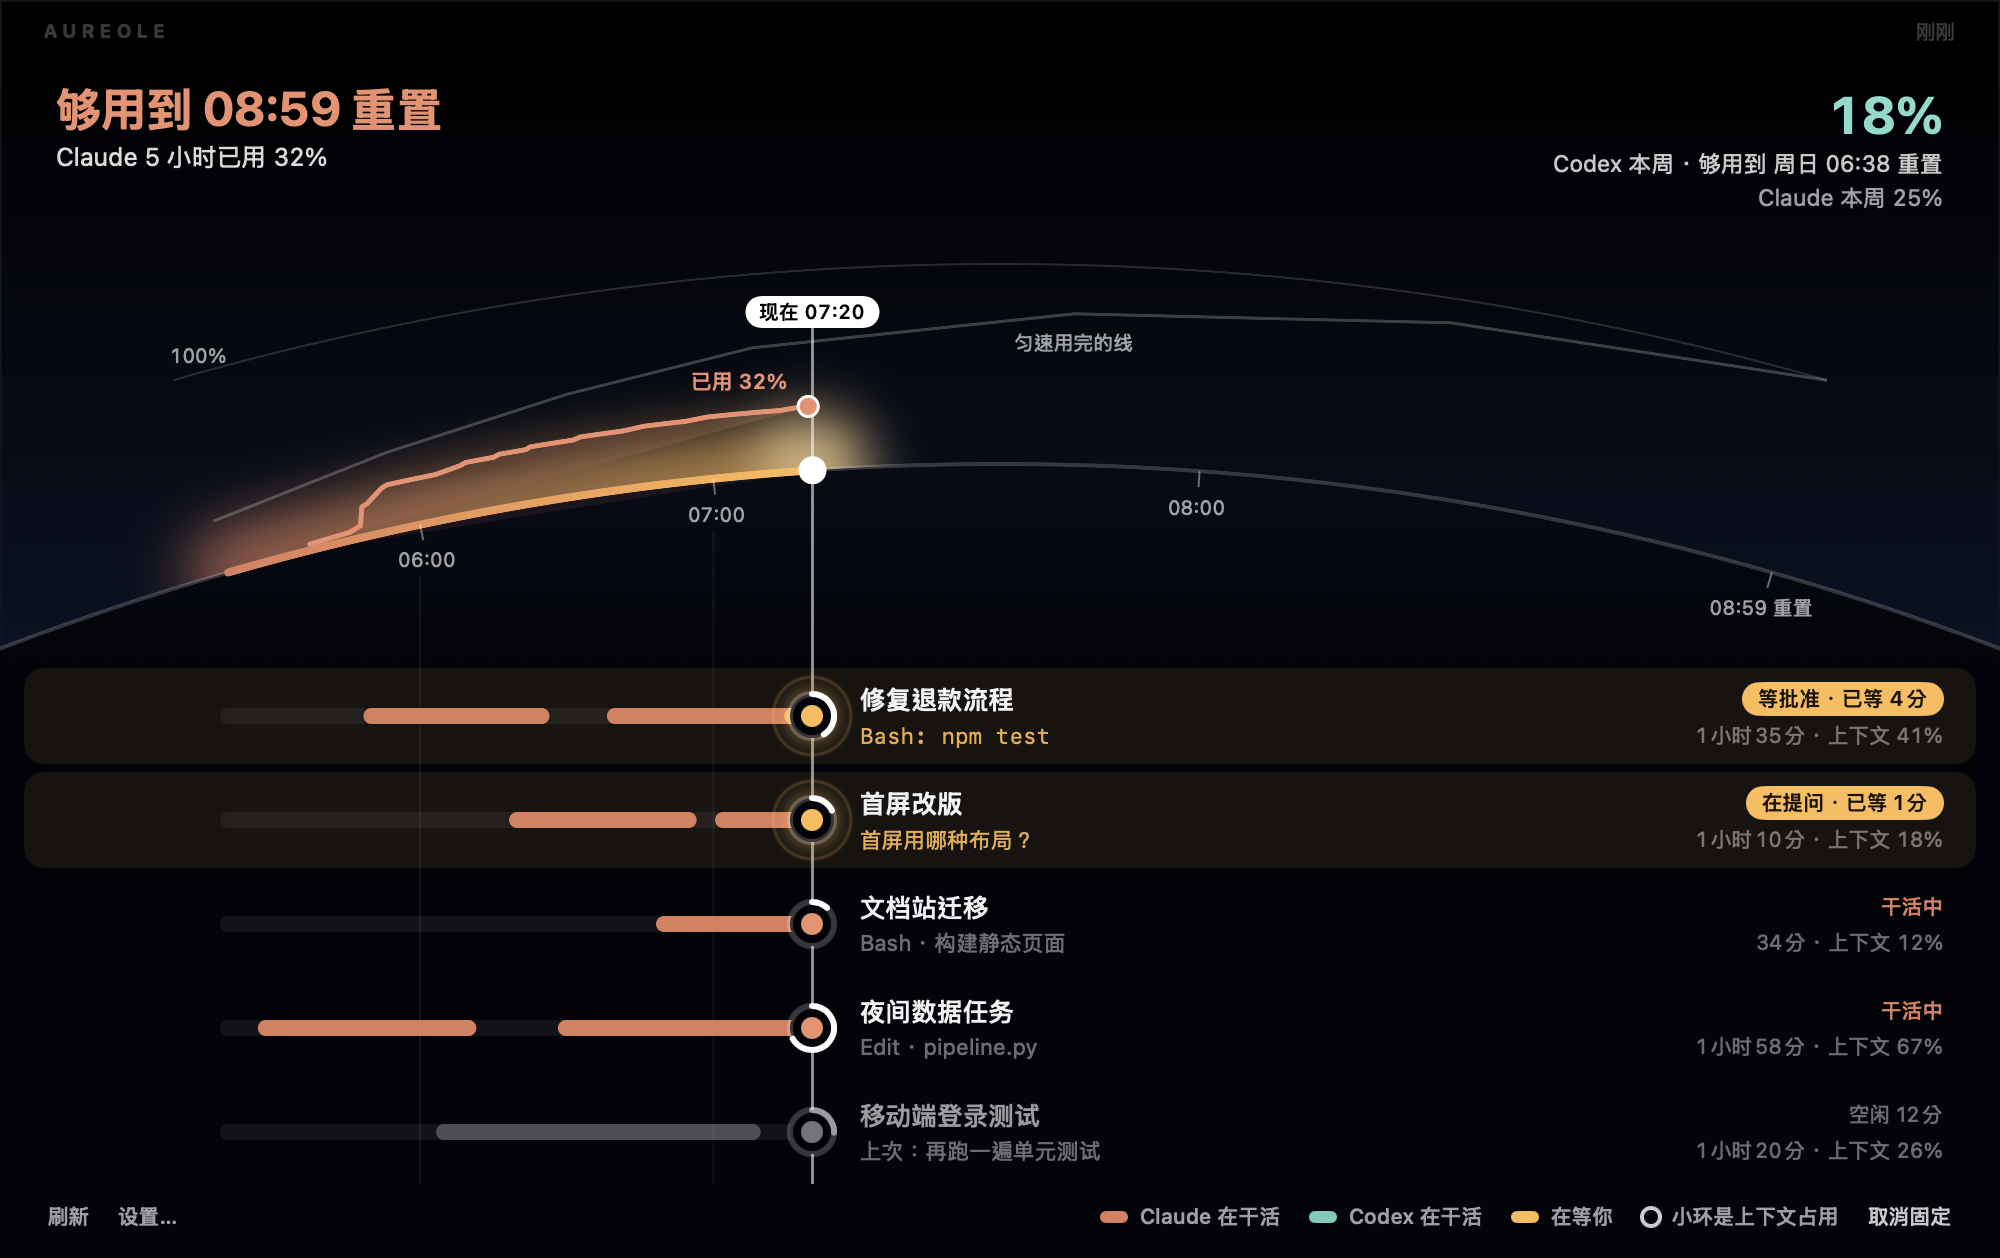
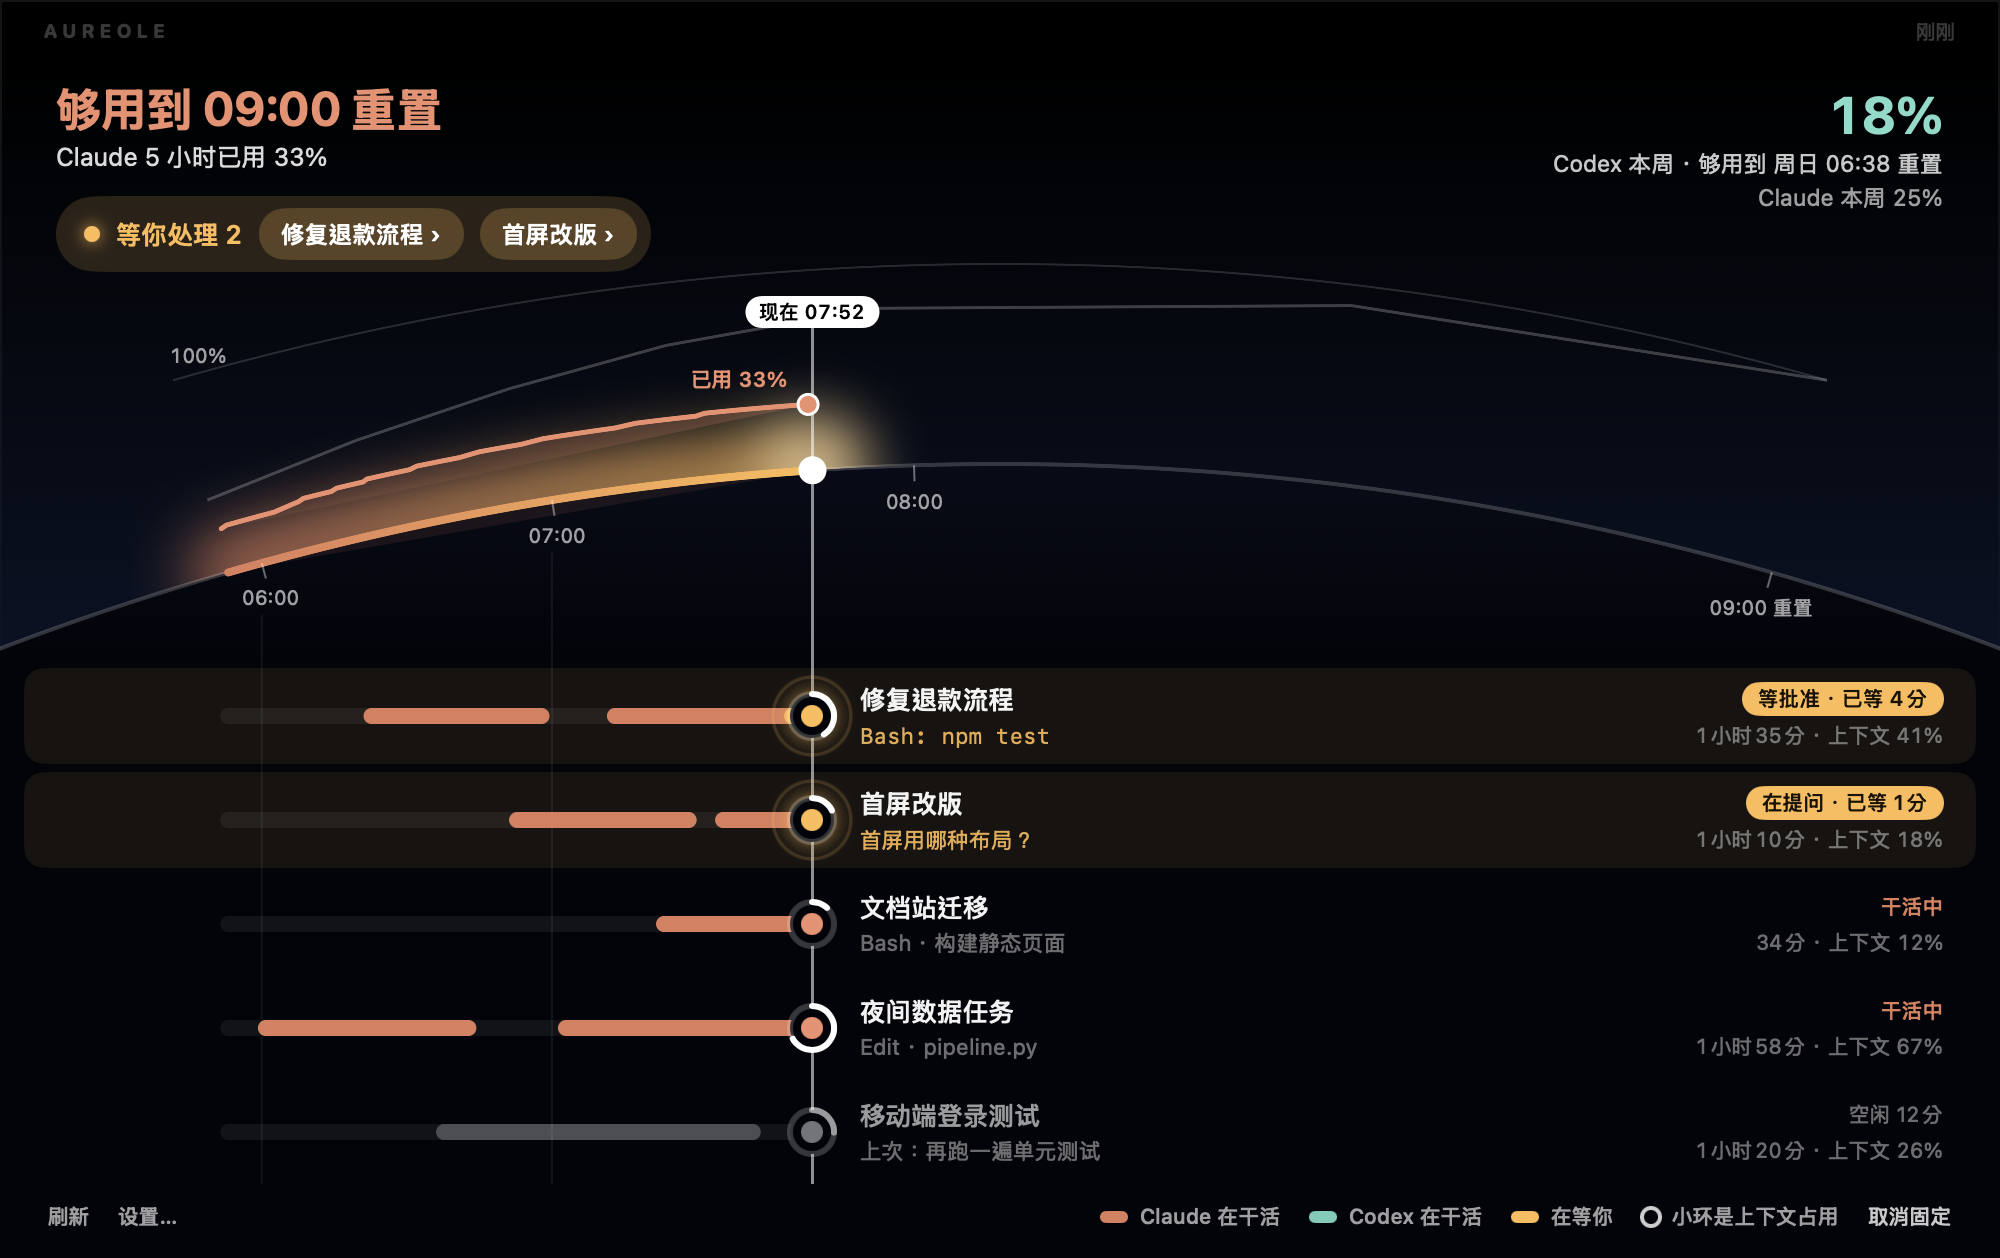
Horizon: waiting capsule and a details card, from the D2 board
Sessions that need you get an amber capsule under the conclusion with a
jump button each (two, then +N). Hovering a lane opens a card on the
right: what it is requesting, prompt, recent tool calls, context bar,
folder, Jump to terminal. The card stays while the pointer moves onto
it. Screenshots updated.

diff --git a/Sources/Aureole/UI/HorizonView.swift b/Sources/Aureole/UI/HorizonView.swift
@@ -60,6 +60,11 @@ struct HorizonPanel: View {
     let pinned: Bool
     weak var actions: AppActions?
     @State private var lanesHeight: CGFloat = 0
+    /// The session whose details card is showing: set by hovering its lane, kept while the card is hovered.
+    /// `open Aureole.app --args -debugFocusLane <session id>` starts with one card up, for screenshots.
+    @State private var focus: String? = UserDefaults.standard.string(forKey: "debugFocusLane")
+    @State private var hoveredLane: String?
+    @State private var hoveringCard = false
 
     static let laneHeight: CGFloat = 52
 
@@ -80,11 +85,18 @@ struct HorizonPanel: View {
         VStack(spacing: 0) {
             ZStack(alignment: .topLeading) {
                 HorizonCanvas(scene: scene)
-                HorizonHeadlineView(inputs: inputs, store: store)
-                    .padding(.leading, 28).padding(.top, 8)
-                SideNumber(inputs: inputs, store: store)
-                    .frame(maxWidth: .infinity, alignment: .trailing)
-                    .padding(.trailing, 28).padding(.top, 10)
+                HStack(alignment: .top, spacing: 16) {
+                    // The waiting capsule sits under the conclusion, in the sky left of "now", which is otherwise empty.
+                    VStack(alignment: .leading, spacing: 12) {
+                        HorizonHeadlineView(inputs: inputs, store: store)
+                        if !board.waiting.isEmpty {
+                            WaitingCapsule(waiting: board.waiting, name: sessions.name(of:), actions: actions)
+                        }
+                    }
+                    Spacer(minLength: 0)
+                    SideNumber(inputs: inputs, store: store).fixedSize().padding(.top, 2)
+                }
+                .padding(.horizontal, 28).padding(.top, 8)
             }
             .frame(width: width, height: scene.layout.height * s)
 
@@ -94,6 +106,36 @@ struct HorizonPanel: View {
         .background(alignment: .bottom) {
             // The planet's night side carries on under the lanes and the footer.
             HorizonColor.ground.padding(.top, scene.layout.height * s - 1)
+        }
+        .overlay(alignment: .topTrailing) {
+            if let id = focus, let lane = scene.lanes.first(where: { $0.id == id }) {
+                SessionCard(session: lane.session, name: sessions.name(of: lane.session), context: sessions.context[id], actions: actions)
+                    .frame(width: 318)
+                    .onHover { inside in
+                        hoveringCard = inside
+                        if !inside { scheduleBlur() }
+                    }
+                    .padding(.trailing, 28).padding(.top, 84 * s)
+                    .transition(.opacity)
+            }
+        }
+        .animation(.easeOut(duration: 0.15), value: focus)
+    }
+
+    private func laneHover(_ id: String, _ inside: Bool) {
+        if inside {
+            hoveredLane = id
+            focus = id
+        } else {
+            if hoveredLane == id { hoveredLane = nil }
+            scheduleBlur()
+        }
+    }
+
+    /// Leaves the card up long enough to move the pointer onto it.
+    private func scheduleBlur() {
+        DispatchQueue.main.asyncAfter(deadline: .now() + 0.4) {
+            if hoveredLane == nil && !hoveringCard { focus = nil }
         }
     }
 
@@ -118,7 +160,7 @@ struct HorizonPanel: View {
                 VStack(spacing: 0) {
                     ForEach(scene.lanes) { lane in
                         LaneRow(scene: scene, lane: lane, scale: s, name: sessions.name(of: lane.session),
-                                context: sessions.context[lane.id], actions: actions)
+                                context: sessions.context[lane.id], actions: actions, onHover: { laneHover(lane.id, $0) })
                             .frame(height: Self.laneHeight)
                     }
                 }
@@ -361,6 +403,7 @@ struct LaneRow: View {
     let name: String
     let context: Int?
     weak var actions: AppActions?
+    var onHover: (Bool) -> Void = { _ in }
     @State private var hovered = false
 
     var body: some View {
@@ -398,8 +441,7 @@ struct LaneRow: View {
             .contentShape(Rectangle())
         }
         .buttonStyle(.plain)
-        .onHover { hovered = $0 }
-        .help(tooltip(s))
+        .onHover { hovered = $0; onHover($0) }
     }
 
     @ViewBuilder
@@ -439,14 +481,6 @@ struct LaneRow: View {
         if let context { parts.append(L10n.f("context %d%%", Int((context * 100).rounded()))) }
         return parts.joined(separator: " · ")
     }
-
-    private func tooltip(_ s: AgentSession) -> String {
-        var lines = [(s.cwd as NSString).abbreviatingWithTildeInPath]
-        if let p = s.promptPreview, !p.isEmpty { lines.append(L10n.t("Prompt") + ": " + p) }
-        for a in s.recent ?? [] { lines.append(SessionText.ago(a.at) + "  " + a.text) }
-        if let context { lines.append(L10n.t("Context") + ": " + TranscriptReader.short(context)) }
-        return lines.joined(separator: "\n")
-    }
 }
 
 /// One session's light: a context ring around a coloured core, an amber halo when it needs you.
@@ -481,6 +515,110 @@ struct SessionLight: View {
         .onAppear {
             guard lane.role == .waiting else { return }
             withAnimation(.easeInOut(duration: 1.1).repeatForever(autoreverses: true)) { pulse = true }
+        }
+    }
+}
+
+// MARK: - Waiting and details
+
+/// "Needs you 2" with one button per waiting session; a click jumps to its terminal.
+struct WaitingCapsule: View {
+    let waiting: [AgentSession]
+    let name: (AgentSession) -> String
+    weak var actions: AppActions?
+
+    var body: some View {
+        HStack(spacing: 8) {
+            Circle().fill(Theme.amber).frame(width: 8, height: 8).shadow(color: Theme.amber.opacity(0.9), radius: 4)
+            Text(L10n.f("Needs you %d", waiting.count))
+                .font(.system(size: 13, weight: .semibold)).foregroundStyle(Theme.amber).fixedSize()
+            ForEach(waiting.prefix(2)) { s in
+                Button { actions?.jump(to: s) } label: {
+                    Text(SessionText.short(name(s)) + " ›")
+                        .font(.system(size: 12, weight: .semibold)).foregroundStyle(.white).lineLimit(1)
+                        .padding(.horizontal, 11).frame(height: 26)
+                        .background(Capsule().fill(Theme.amber.opacity(0.22)))
+                }
+                .buttonStyle(.plain)
+                .help(s.waitingMessage ?? s.cwd)
+            }
+            if waiting.count > 2 {
+                Text("+\(waiting.count - 2)").font(.system(size: 11.5, weight: .semibold)).foregroundStyle(Theme.amber)
+            }
+        }
+        .padding(.leading, 14).padding(.trailing, 7)
+        .frame(height: 38)
+        .background(Capsule().fill(Theme.amber.opacity(0.16)))
+        .fixedSize()
+    }
+}
+
+/// Details for one session; appears while its lane (or the card itself) is hovered.
+struct SessionCard: View {
+    let session: AgentSession
+    let name: String
+    let context: Int?
+    weak var actions: AppActions?
+
+    var body: some View {
+        let s = session
+        VStack(alignment: .leading, spacing: 10) {
+            HStack(spacing: 8) {
+                Circle().fill(SessionText.dot(s)).frame(width: 8, height: 8)
+                Text(name).font(.system(size: 14, weight: .semibold)).foregroundStyle(.white).lineLimit(1)
+                Spacer(minLength: 4)
+                if s.state.needsYou {
+                    Text(SessionText.waitStatus(s))
+                        .font(.system(size: 10.5, weight: .semibold)).foregroundStyle(Color(hex: 0x1A1305))
+                        .padding(.horizontal, 8).padding(.vertical, 2)
+                        .background(Capsule().fill(Theme.amber))
+                        .fixedSize()
+                }
+            }
+            if let m = s.waitingMessage { row(L10n.t("Requesting"), m, mono: true) }
+            if let p = s.promptPreview, !p.isEmpty { row(L10n.t("Prompt"), p) }
+            if let recent = s.recent, !recent.isEmpty {
+                VStack(alignment: .leading, spacing: 4) {
+                    ForEach(Array(recent.enumerated()), id: \.offset) { _, a in row(SessionText.ago(a.at), a.text) }
+                }
+            }
+            if let context {
+                let f = ContextGauge.fraction(tokens: context)
+                HStack(spacing: 10) {
+                    Text(L10n.t("Context")).font(.system(size: 11)).foregroundStyle(HorizonColor.label).frame(width: 52, alignment: .leading)
+                    GeometryReader { g in
+                        ZStack(alignment: .leading) {
+                            Capsule().fill(Color.white.opacity(0.12))
+                            Capsule().fill(Color.white.opacity(0.75)).frame(width: g.size.width * f)
+                        }
+                    }
+                    .frame(height: 4)
+                    Text("\(Int((f * 100).rounded()))% · \(TranscriptReader.short(context))")
+                        .font(.system(size: 11).monospacedDigit()).foregroundStyle(.white.opacity(0.86)).fixedSize()
+                }
+                .help(L10n.t("Context %% is an estimate (200k or 1M window)."))
+            }
+            row(L10n.t("Folder"), (s.cwd as NSString).abbreviatingWithTildeInPath)
+            Button { actions?.jump(to: s) } label: {
+                Text(L10n.t("Jump to terminal"))
+                    .font(.system(size: 12, weight: .semibold)).foregroundStyle(.black)
+                    .padding(.horizontal, 16).frame(height: 30)
+                    .background(Capsule().fill(Color.white))
+            }
+            .buttonStyle(.plain)
+        }
+        .padding(.horizontal, 16).padding(.vertical, 14)
+        .background(RoundedRectangle(cornerRadius: 16).fill(Color(hex: 0x12141B).opacity(0.97)))
+        .overlay(RoundedRectangle(cornerRadius: 16)
+            .stroke(s.state.needsYou ? Theme.amber.opacity(0.45) : Color.white.opacity(0.14), lineWidth: 1))
+        .shadow(color: .black.opacity(0.5), radius: 18, y: 8)
+    }
+
+    private func row(_ key: String, _ value: String, mono: Bool = false) -> some View {
+        HStack(alignment: .top, spacing: 10) {
+            Text(key).font(.system(size: 11)).foregroundStyle(HorizonColor.label).frame(width: 52, alignment: .leading)
+            Text(value).font(mono ? .system(size: 11, design: .monospaced) : .system(size: 11))
+                .foregroundStyle(.white.opacity(0.86)).lineLimit(2)
         }
     }
 }
